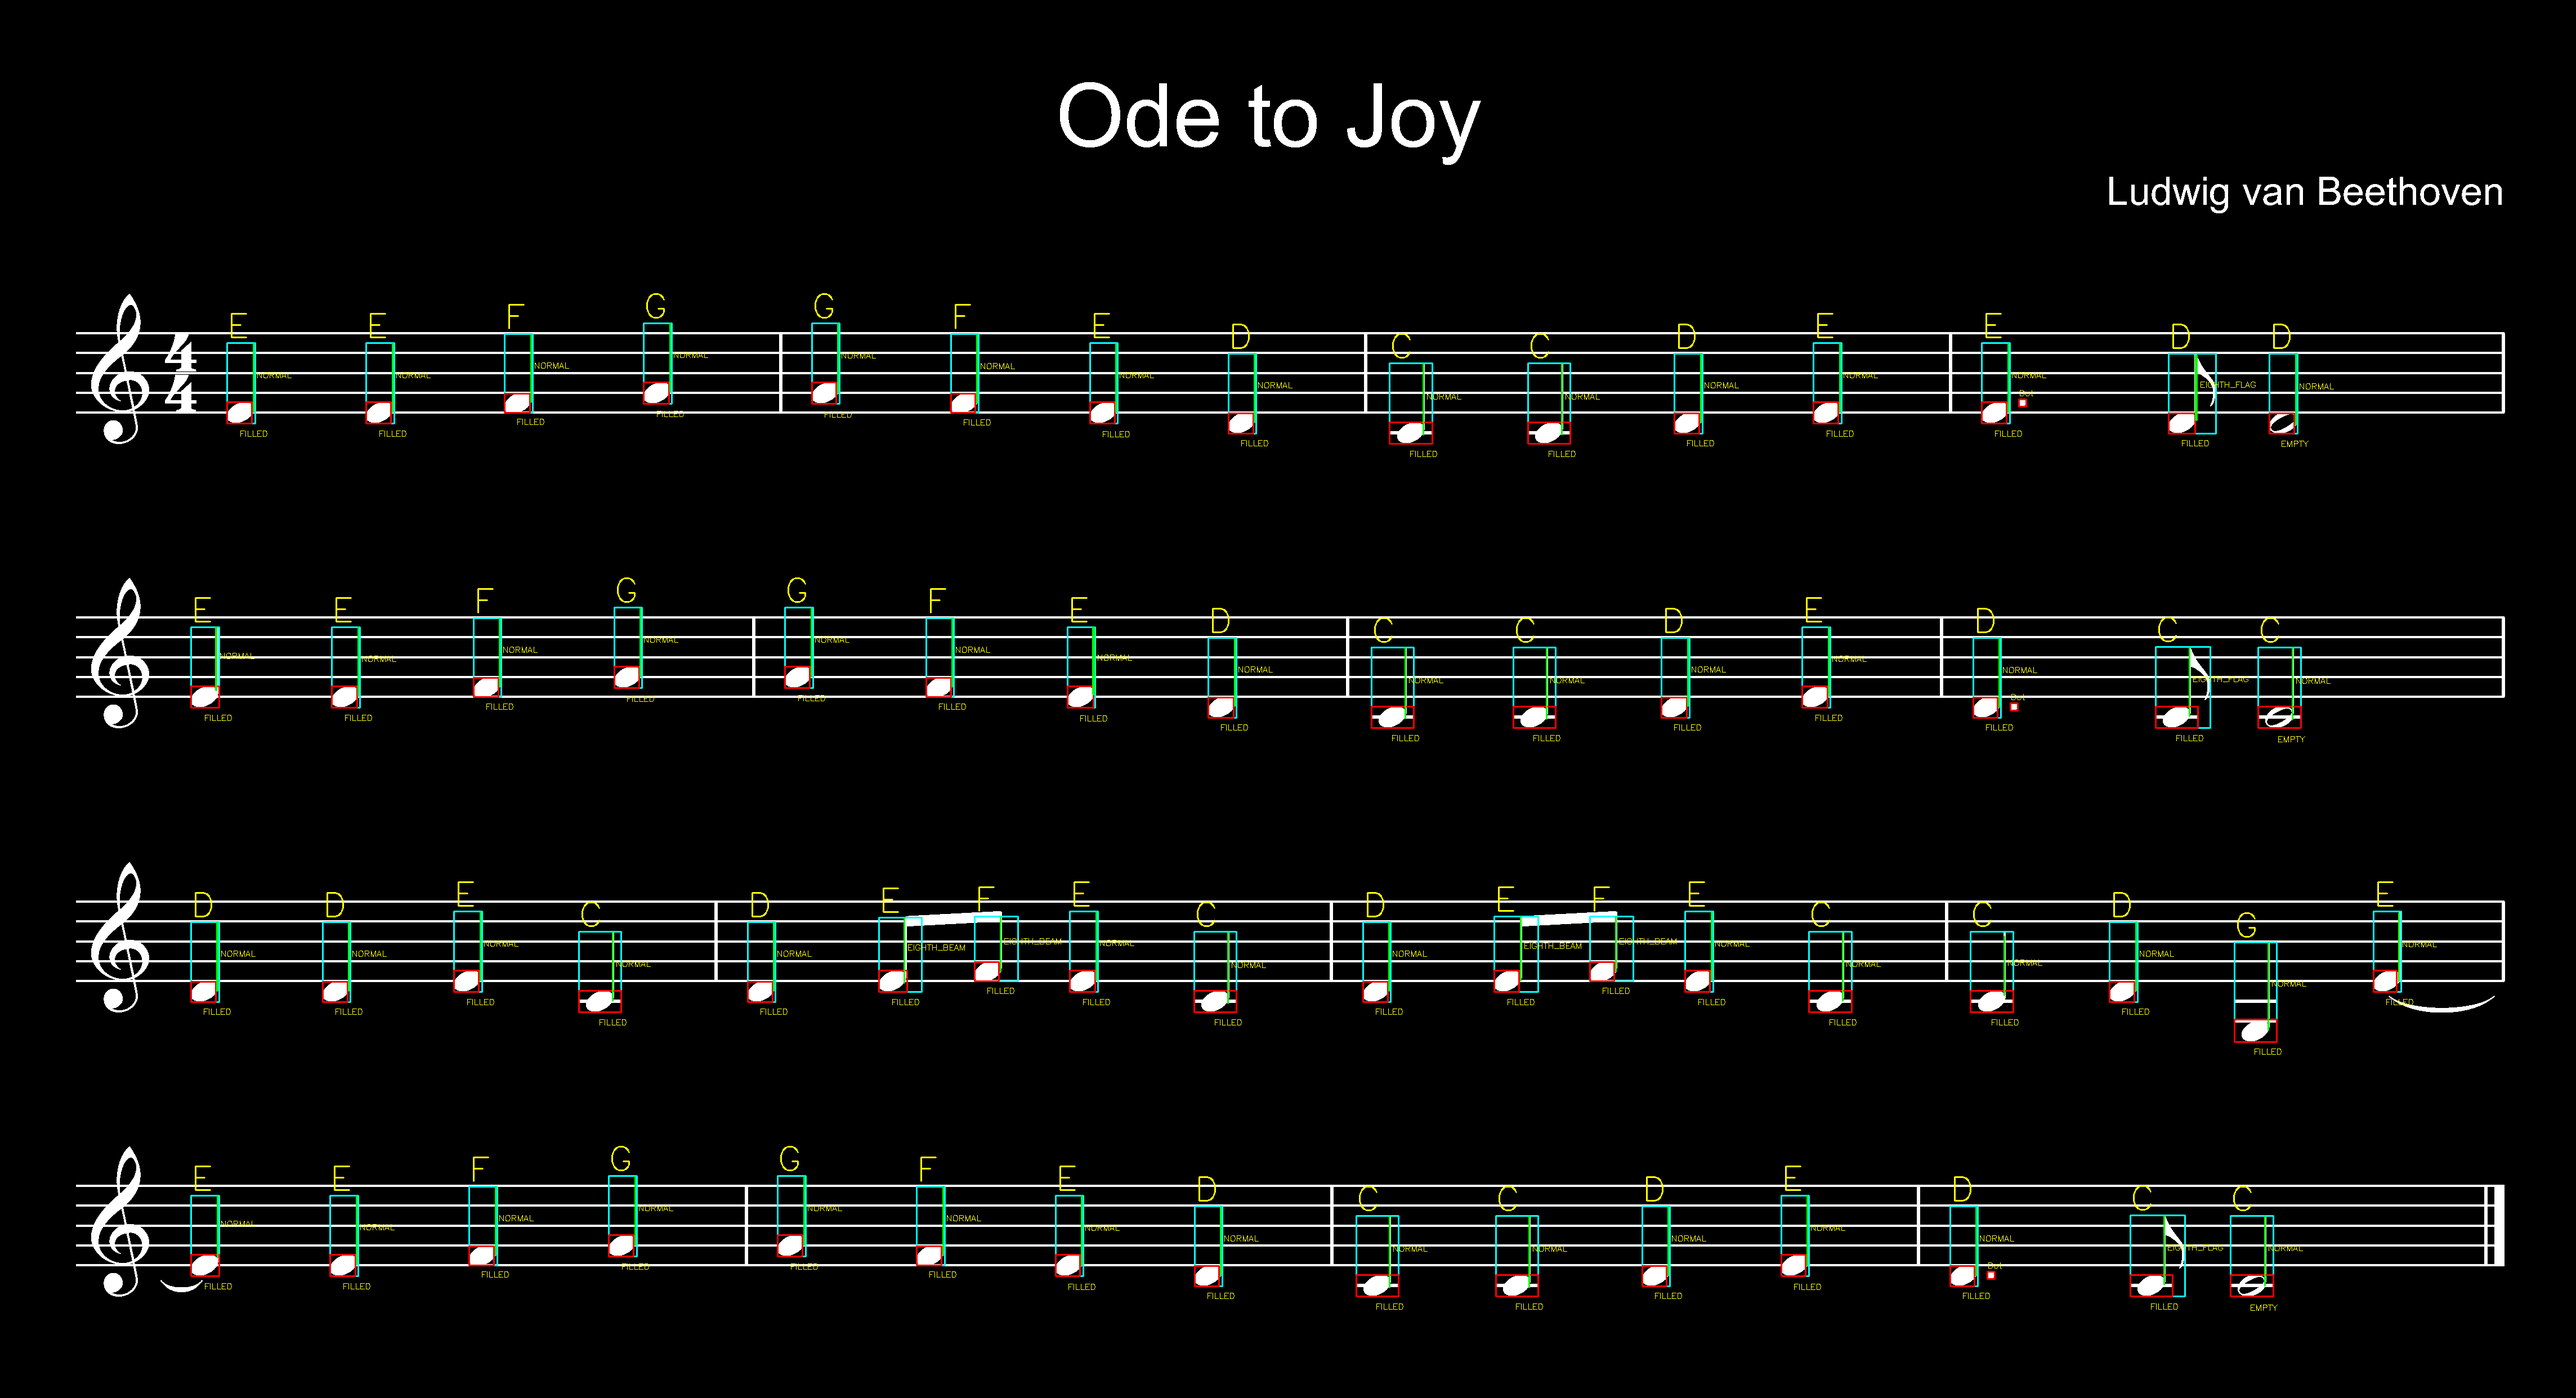
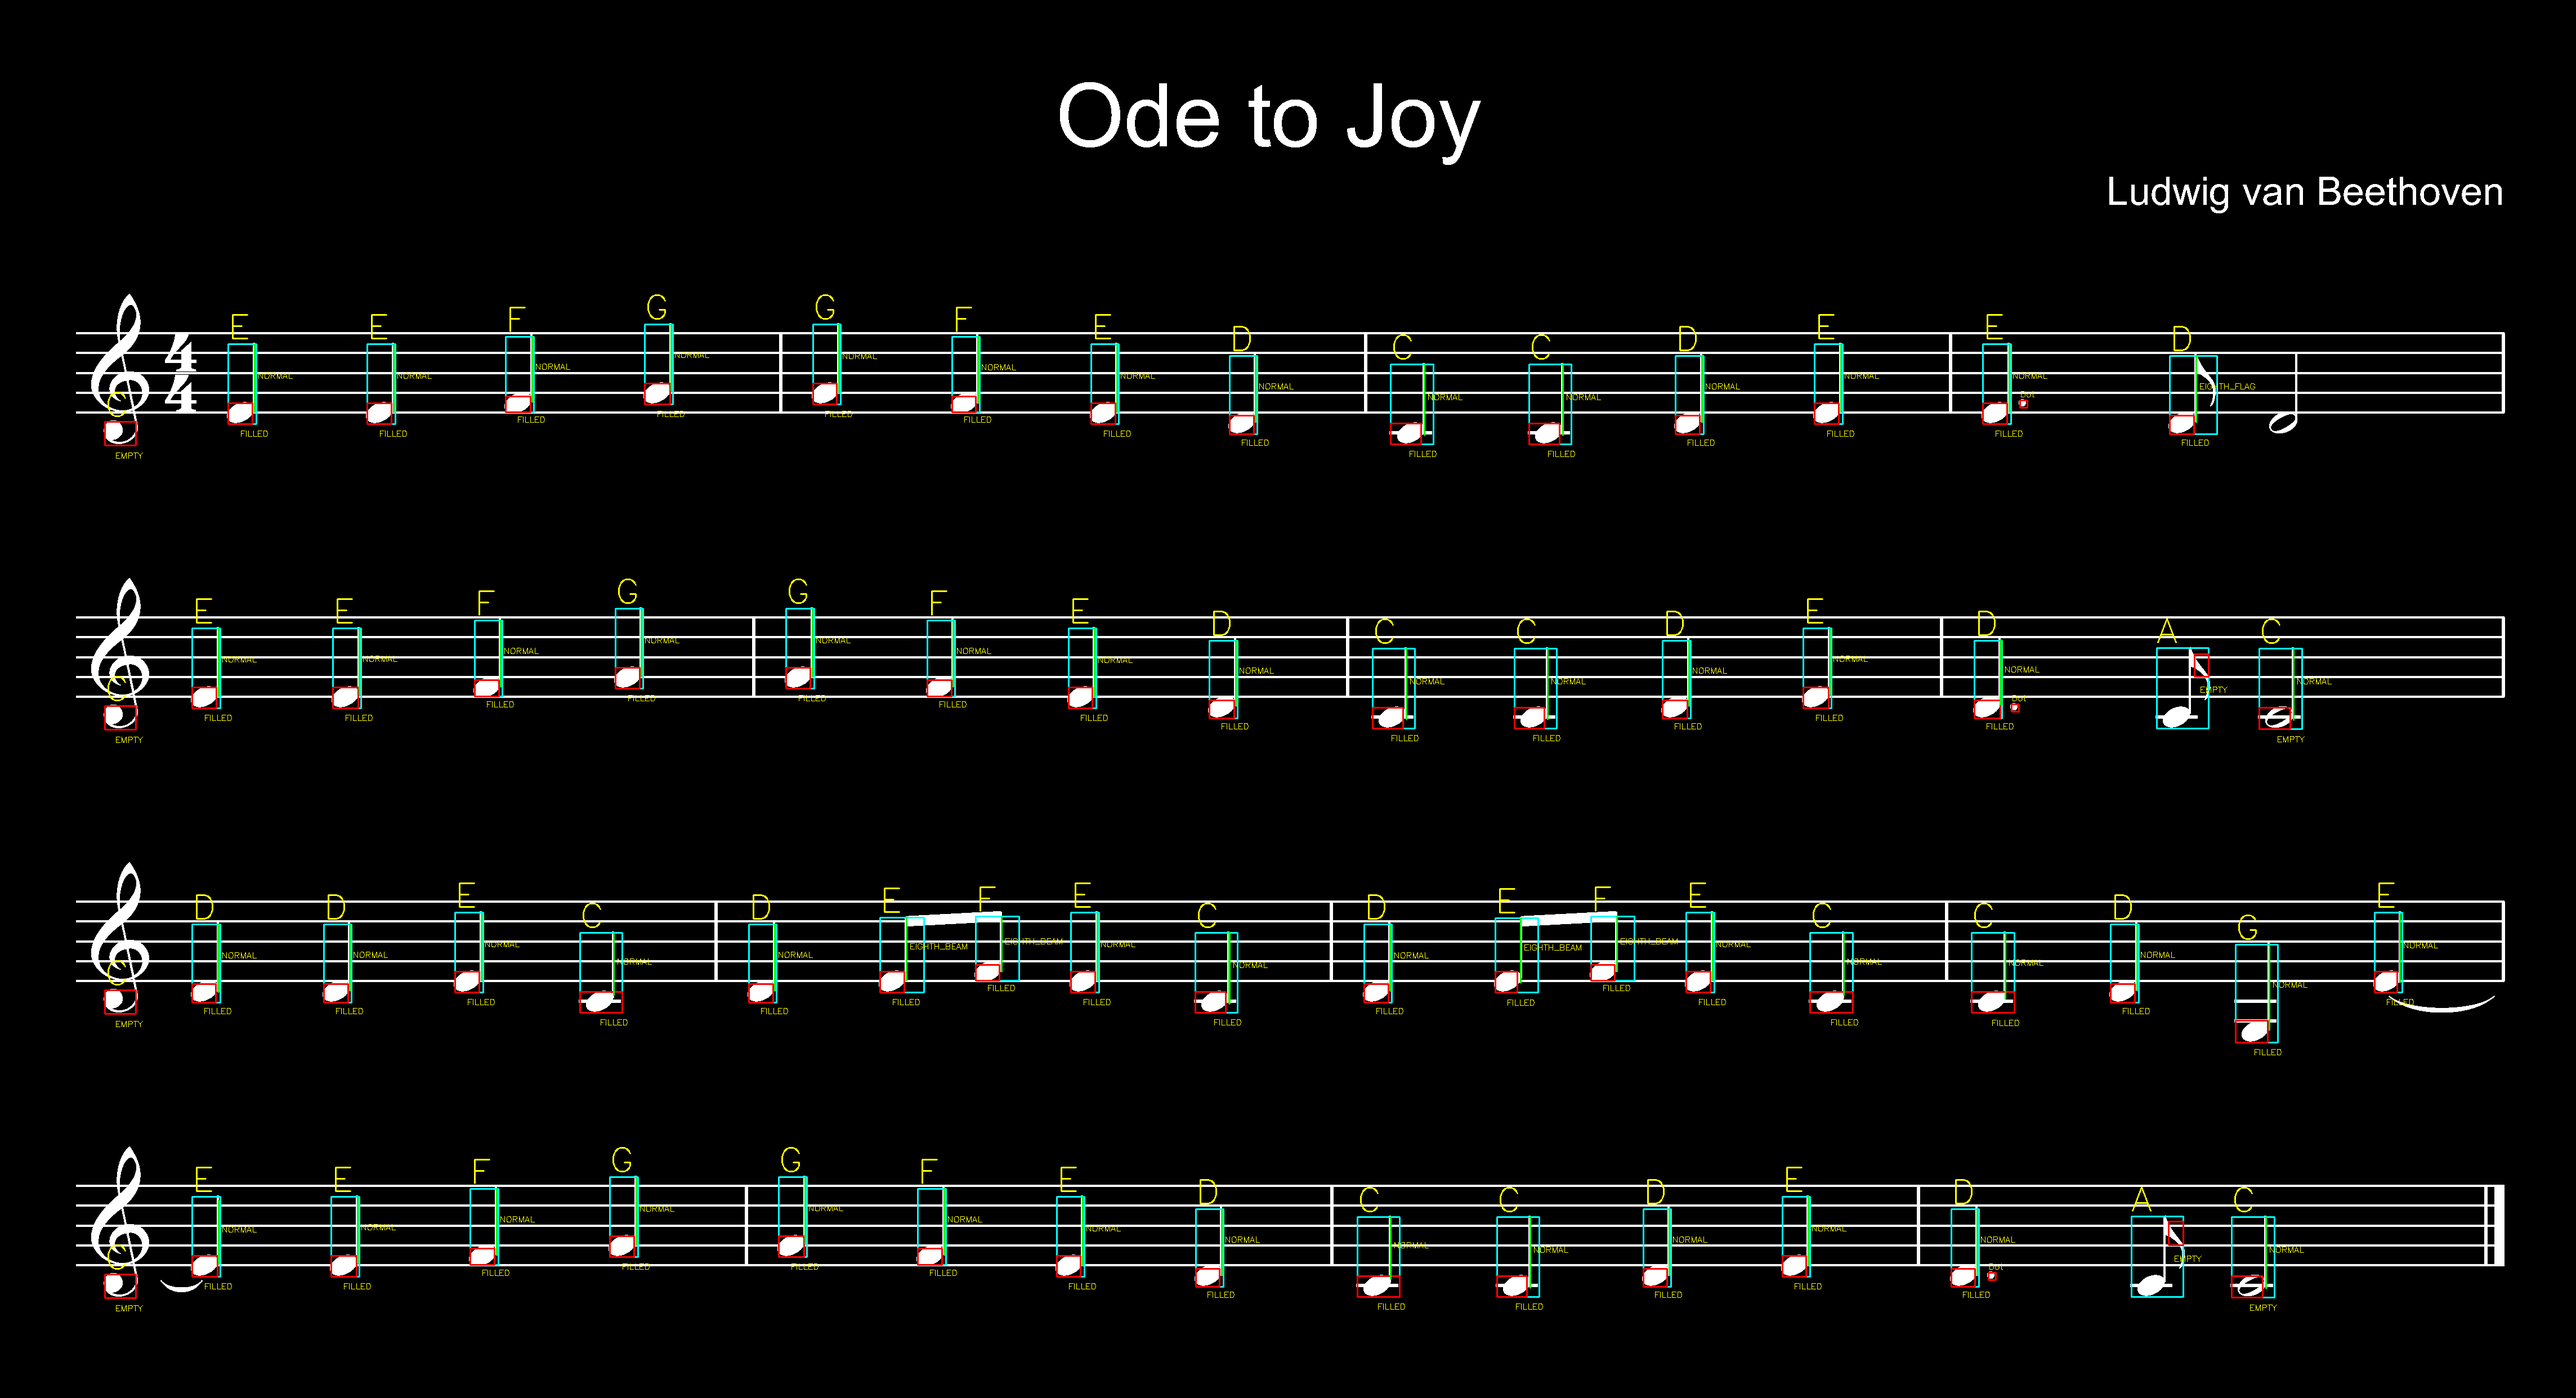
save work

diff --git a/src/omr.py b/src/omr.py
@@ -27,20 +27,24 @@ class OMR:
         self.otsu_filter()
         self.extract_staff_metrics()
         self.create_inverted()
+
+        print(self.staffspace_height, self.staffline_height)
         self.find_staff_lines()
         print(self.staffs)
+
+        print(self.staffs[0].lines)
 
         # cv2.imshow("Music", self.inverted_music)
         # cv2.waitKey()
 
         self.remove_staff_lines()
-
+        self.clean_noise()
         # self.display_image(self.no_staff_lines)
-        # cv2.imshow("Music", self.no_staff_lines)
-        # cv2.waitKey()
+
+        cv2.imwrite("no_staff_lines.png", self.no_staff_lines)
 
         self.canny = cv2.Canny(self.no_staff_lines, 0, 1)
-
+        # self.display_image(self.canny)
         # kernel = cv2.getStructuringElement(
         #     cv2.MORPH_RECT, (self.staffline_height * 2, self.staffline_height))
         # self.canny = cv2.dilate(self.canny, kernel)
@@ -129,6 +133,16 @@ class OMR:
     #     cv2.rectangle(img, (bb[0], bb[1]), (bb[0] + bb[2],
     #                                         bb[1] + bb[3]), color, thickness=2)
 
+    def clean_noise(self):
+        kernel = cv2.getStructuringElement(
+            cv2.MORPH_ELLIPSE, (self.staffline_height, self.staffline_height))
+
+        opening = cv2.morphologyEx(
+            self.no_staff_lines, cv2.MORPH_CLOSE, kernel)
+        closing = cv2.morphologyEx(opening, cv2.MORPH_OPEN, kernel)
+
+        self.no_staff_lines = closing
+
     def otsu_filter(self):
         _, img = cv2.threshold(
             self.gray, 0, 1, cv2.THRESH_BINARY + cv2.THRESH_OTSU)
@@ -146,6 +160,9 @@ class OMR:
         highest = np.max(row_sums)
         avg = int(np.average(np.where(row_sums > 0)))
 
+        print(highest)
+        print(avg)
+
         staffs = []
         last_staff_line = None
         current_line = []
@@ -153,7 +170,7 @@ class OMR:
 
         for row, line in enumerate(row_sums):
             # We are at a staff line
-            if line > avg:
+            if in_tolerance(line, highest, 0.2):
                 current_line.append(row)
 
             # We are not at a staff line,
@@ -166,7 +183,9 @@ class OMR:
                 if last_staff_line is None or abs(next_center - last_staff_line.center()) < 2 * self.staffspace_height:
                     current_staff.add_line(next_staffline)
                 else:
-                    staffs.append(current_staff)
+                    if current_staff.len() == 5:
+                        staffs.append(current_staff)
+
                     current_staff = Staff()
                     current_staff.add_line(next_staffline)
 
@@ -181,7 +200,7 @@ class OMR:
     def remove_staff_lines(self):
         removed = self.inverted_music.copy()
         kernel = cv2.getStructuringElement(
-            cv2.MORPH_RECT, (1, int(self.staffline_height * 1.5)))
+            cv2.MORPH_RECT, (1, round(self.staffline_height * 3)))
 
         for staff in self.staffs:
             for line in staff.lines:
@@ -233,6 +252,9 @@ class OMR:
                 lines = list(filter(lambda stem: stem.y_max() <
                                     y_top and stem.y_min() > y_bot, self.probable_stems))
 
+                if len(lines) == 0:
+                    break
+
                 new_stems.extend(Stem.combine_similar_lines(
                     lines, self.staffspace_height))
 
@@ -250,7 +272,7 @@ class OMR:
 
             total += (self.staffs[i + 1].center() - self.staffs[i].center())
 
-        return total / (len(self.staffs) - 1)
+        return total / len(self.staffs)
 
     def detect_note_heads(self):
         # return width < sh * 2 and width > sh / 5 \
@@ -318,7 +340,7 @@ class OMR:
         idxs = reversed(to_remove)
 
         for idx in idxs:
-            self.probable_heads.pop(idx.pop())
+            self.probable_heads.pop(idx)
 
     def determine_notes(self):
         assert len(self.note_head_cnts)
@@ -364,7 +386,8 @@ class OMR:
                 # If the x of the stem is near the head's x
                 if abs(stem.x_center() - head.centroid()[0]) < self.staffspace_height:
                     # If the end of the stem is at about the head's midpoint
-                    if abs(stem.y_max() - head.centroid()[1]) < self.staffspace_height:
+                    if abs(stem.y_max() - head.centroid()[1]) < self.staffspace_height \
+                            or abs(stem.y_min() - head.centroid()[1]) < self.staffspace_height:
                         # or abs(stem.y_max() - head.centroid()[1]) < self.staffspace_height / 2:
                         chosen_stem = stem
                         break
@@ -420,7 +443,7 @@ class OMR:
             if not self.fits_beam(w, h):
                 continue
 
-            print(f"Potential Beam: {x, y, w, h}")
+            # print(f"Potential Beam: {x, y, w, h}")
 
             connected_heads = set()
 
@@ -433,7 +456,7 @@ class OMR:
                     connected_heads.add(head)
 
             if len(connected_heads) < 2:
-                print("Not enough heads")
+                # print("Not enough heads")
                 continue
 
             for head in connected_heads:
@@ -464,7 +487,7 @@ class OMR:
 
             beam_notes = []
 
-            print("connected_stems:", connected_stems)
+            # print("connected_stems:", connected_stems)
 
             for head in connected_heads:
                 min_stem = None
@@ -514,7 +537,7 @@ class OMR:
 
         height, width = removed.shape
         # print(f"width: {width}, height: {height}")
-        delta = int(self.staffline_height * 1.4)
+        delta = int(self.staffline_height * 1.5)
 
         for stem in self.probable_stems:
             # print(stem, stem.bb)
@@ -530,7 +553,7 @@ class OMR:
 
             eroded = cv2.erode(removed[y_min:y_max, x_min:x_max],
                                kernel, iterations=2)
-            removed[y_min:y_max, x_min:x_max] = eroded
+            removed[y_min:y_max, x_min:x_max] = 0
 
         self.no_stems = removed
 

diff --git a/src/lexer.py b/src/lexer.py
@@ -178,7 +178,7 @@ class Lexer:
                 else:
                     note.stem.type = StemType.SIXTEENTH_FLAG
             else:
-                print("Unknown stem count:", count)
+                # print("Unknown stem count:", count)
                 note.stem.type = StemType.NORMAL
 
         # self.no_stems = removed
@@ -196,7 +196,7 @@ class Lexer:
 
             total += (self.staffs[i + 1].center() - self.staffs[i].center())
 
-        return total / (len(self.staffs) - 1)
+        return total / len(self.staffs)
 
     def populate_notes(self):
         staff = self.staffs[self.current_staff]
